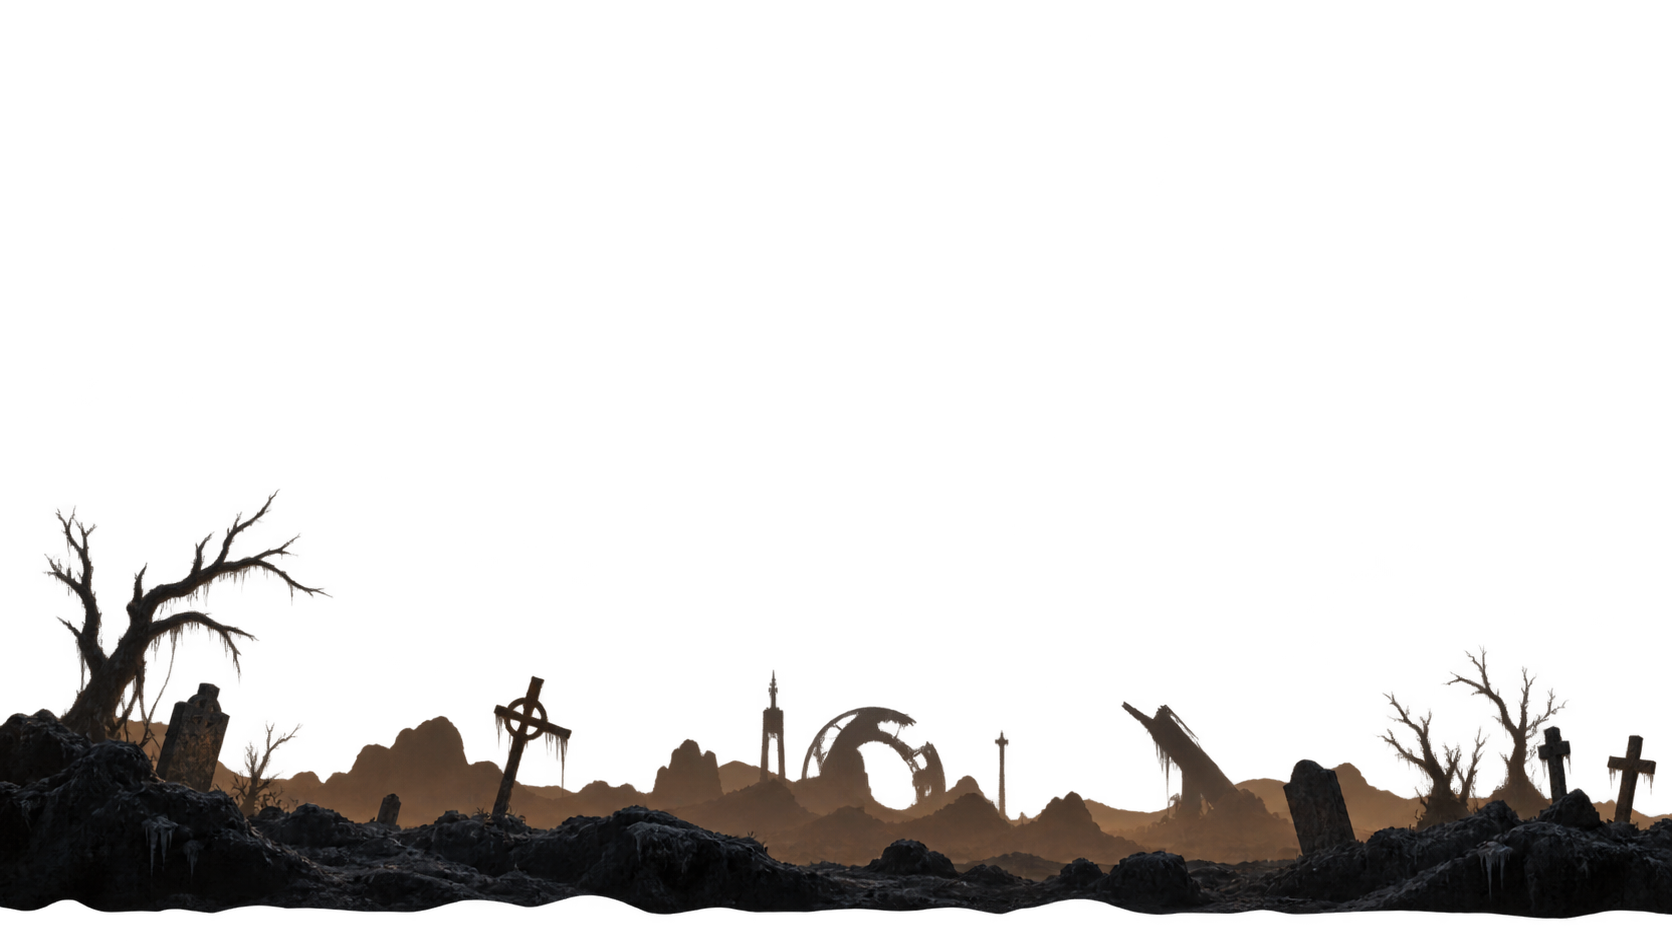
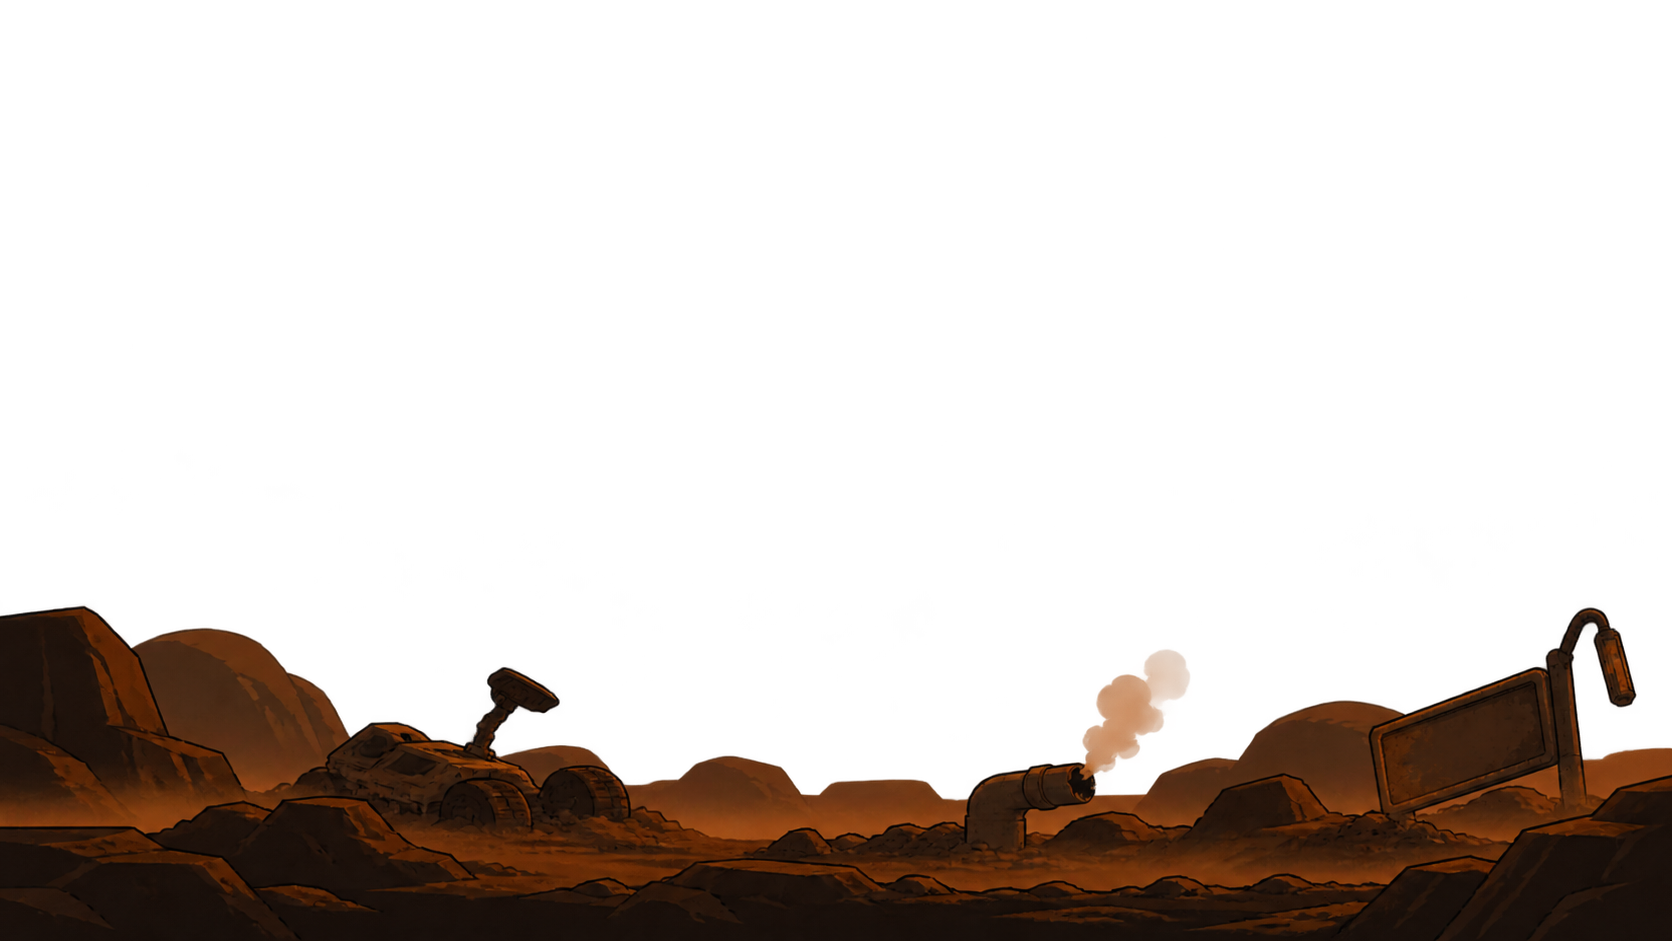
Titano cartoon: cielo con Saturno, due fondali, terreno Huygens
- Il terreno si stende su 6x6 tessere, cosi' i ciottoli restano leggibili;
  niente piu' tinta arancione sopra, il disegno e' gia' nella luce di Titano
- Il fondale lontano ora si vede pieno invece che quasi trasparente
- Lapidi, croci e alberi senza disegno non si mostrano piu'
- Vecchi cielo, fondali e terreno realistici in assets/inutili

Claude-Session: https://claude.ai/code/session_01CCcifJbqcTzXqkvytWx2ok

Changed region(s): [[0.0, 0.5547, 1.0, 1.0]]

diff --git a/goblin.py b/goblin.py
@@ -1,6 +1,7 @@
 #!/usr/bin/env python3
 """Goblin - 12 cimiteri. Sopra, sottoterra, duello col Cavaliere. Linux 1920x1080."""
 import math
+import os
 import argparse
 import random
 
@@ -18,6 +19,7 @@ import titan
 W, H = 1920, 1080
 FPS = 60
 TILE = 64
+TITAN_N = 6          # il terreno di Titano copre 6x6 tessere
 ROWS = 17
 GROUND = levels.GROUND
 GRAVITY = 0.75
@@ -84,17 +86,15 @@ class Gfx:
             "H": assets.load("ladder", TILE, TILE, assets.pix(px.LADDER, scale=4), exact=True),
             "^": assets.load("spikes", TILE, TILE, assets.pix(px.SPIKES, scale=4), exact=True),
         }
-        # Titano filtra tutta la luce verso l'ambra: crosta e sottosuolo sono
-        # separati, cosi' la stratigrafia non si ripete come un pavimento.
-        titan_crust = assets.load("titan_ground_grass", TILE, TILE, exact=True)
-        titan_crust.fill((255, 170, 90, 255), special_flags=pygame.BLEND_RGBA_MULT)
-        titan_subsoil = pygame.Surface((TILE, TILE), pygame.SRCALPHA)
-        for y in range(TILE):
-            shade = max(12, 48 - y // 2)
-            pygame.draw.line(titan_subsoil, (shade, max(8, shade // 2), 18), (0, y), (TILE, y))
-        for y in (13, 35, 53):
-            pygame.draw.line(titan_subsoil, (109, 61, 24), (0, y), (TILE, y), 2)
-        self.titan_tiles = {"#": titan_crust, "D": titan_subsoil}
+        # Terreno di Titano: l'immagine e' un'unica sezione di suolo alla Huygens.
+        # Si scala a TITAN_N x TITAN_N tessere, cosi' i ciottoli restano leggibili:
+        # la riga in alto e' la crosta calpestabile, le altre il sottosuolo.
+        self.titan_ground = None
+        if assets.has("titan_ground_grass"):
+            img = pygame.image.load(os.path.join(assets.DIR, "titan_ground_grass.png")).convert()
+            top = img.get_height() // 30          # striscia scura sopra la superficie
+            img = img.subsurface((0, top, img.get_width(), img.get_height() - top))
+            self.titan_ground = pygame.transform.smoothscale(img, (TILE * TITAN_N, TILE * TITAN_N))
         self.titan_lake = pygame.Surface((TILE, H - GROUND * TILE), pygame.SRCALPHA)
         self.titan_lake.fill((23, 12, 13, 255))
         for y in range(18, self.titan_lake.get_height(), 24):
@@ -109,6 +109,11 @@ class Gfx:
         }
         if assets.has("tomb2"):
             self.deco["t2"] = assets.load("tomb2", TILE, TILE)
+        # Lapidi, croci e alberi erano l'arredo da cimitero fantasy: senza il loro
+        # disegno non si mostrano, invece di ripiegare sui pixel di riserva.
+        for ch, name in (("t", "tomb1"), ("+", "cross"), ("Y", "tree")):
+            if not assets.has(name):
+                del self.deco[ch]
         self.player = player_images()
         self.sheets = {}
         # posa -> (file, colonne, righe): i fogli cartoon hanno griglie diverse
@@ -140,6 +145,12 @@ class Gfx:
         if num not in self.boss_cache:
             self.boss_cache[num] = knights.knight_images(self, num, color)
         return self.boss_cache[num]
+
+    def titan_tile(self, ch, c, r):
+        if self.titan_ground is None or ch not in "#D":
+            return None
+        row = 0 if ch == "#" else 1 + r % (TITAN_N - 1)
+        return self.titan_ground.subsurface(((c % TITAN_N) * TILE, row * TILE, TILE, TILE))
 
     def background(self, kind, num):
         key = (kind, num)
@@ -1316,7 +1327,7 @@ class Game:
                 # Titano ha due piani: quello lontano scompare nella foschia,
                 # quello vicino rende leggibili lapidi e rocce in movimento.
                 distant = hills.copy()
-                distant.set_alpha(55)
+                distant.set_alpha(235)
                 off = -(int(cam * 0.16) % distant.get_width())
                 for x in range(off, W, distant.get_width()):
                     s.blit(distant, (x, 0))
@@ -1360,9 +1371,9 @@ class Game:
                     continue
                 y = r * TILE
                 if ch in self.gfx.tiles:
-                    tile = self.gfx.titan_tiles.get(ch) if self.ci == 0 else None
+                    tile = self.gfx.titan_tile(ch, c, r) if self.ci == 0 else None
                     s.blit(tile or self.gfx.tiles[ch], (x, y))
-                elif ch == "Y":
+                elif ch == "Y" and "Y" in self.gfx.deco:
                     s.blit(self.gfx.deco["Y"], (x - TILE // 2, y - TILE * 2))
                 elif ch == "E":
                     s.blit(self.gfx.deco["E"], (x, y - TILE))
